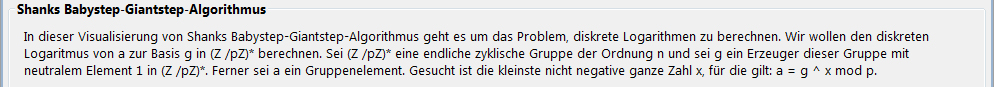
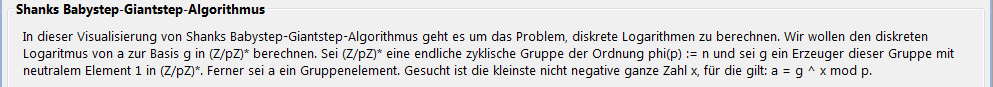
update -Changing screenshots for help

Changed region(s): [[0.0, 0.046, 0.9678, 1.0]]

diff --git a/org.jcryptool.visual.babystepgiantstep/nl/de/help/content/index.html b/org.jcryptool.visual.babystepgiantstep/nl/de/help/content/index.html
@@ -48,7 +48,7 @@ Im vierten Bereich werden die Babysteps berechnet und in einer Tabelle mit allen
 <p>
 Per Klick auf den Button <b>Weiter zu Schritt 4</b> werden die Giantsteps berechnet und ebenfalls in einer Tabelle dargestellt. Je nachdem, 
 welche Eingabeparameter man eingegeben hat, kann es sein, dass dieser Schritt übersprungen wird. In diesem Fall liefern die Babysteps bereits die Lösung, da ein Paar (r,1) gefunden 
-wurde, das die Gleichung a = g ^ x mod G erfüllt. Man braucht dann die Giantsteps nicht mehr zu berechnen.
+wurde, das die Gleichung a = g ^ x mod p erfüllt. Man braucht dann die Giantsteps nicht mehr zu berechnen.
 <p>
 
 <img src="schritt4.jpg">
